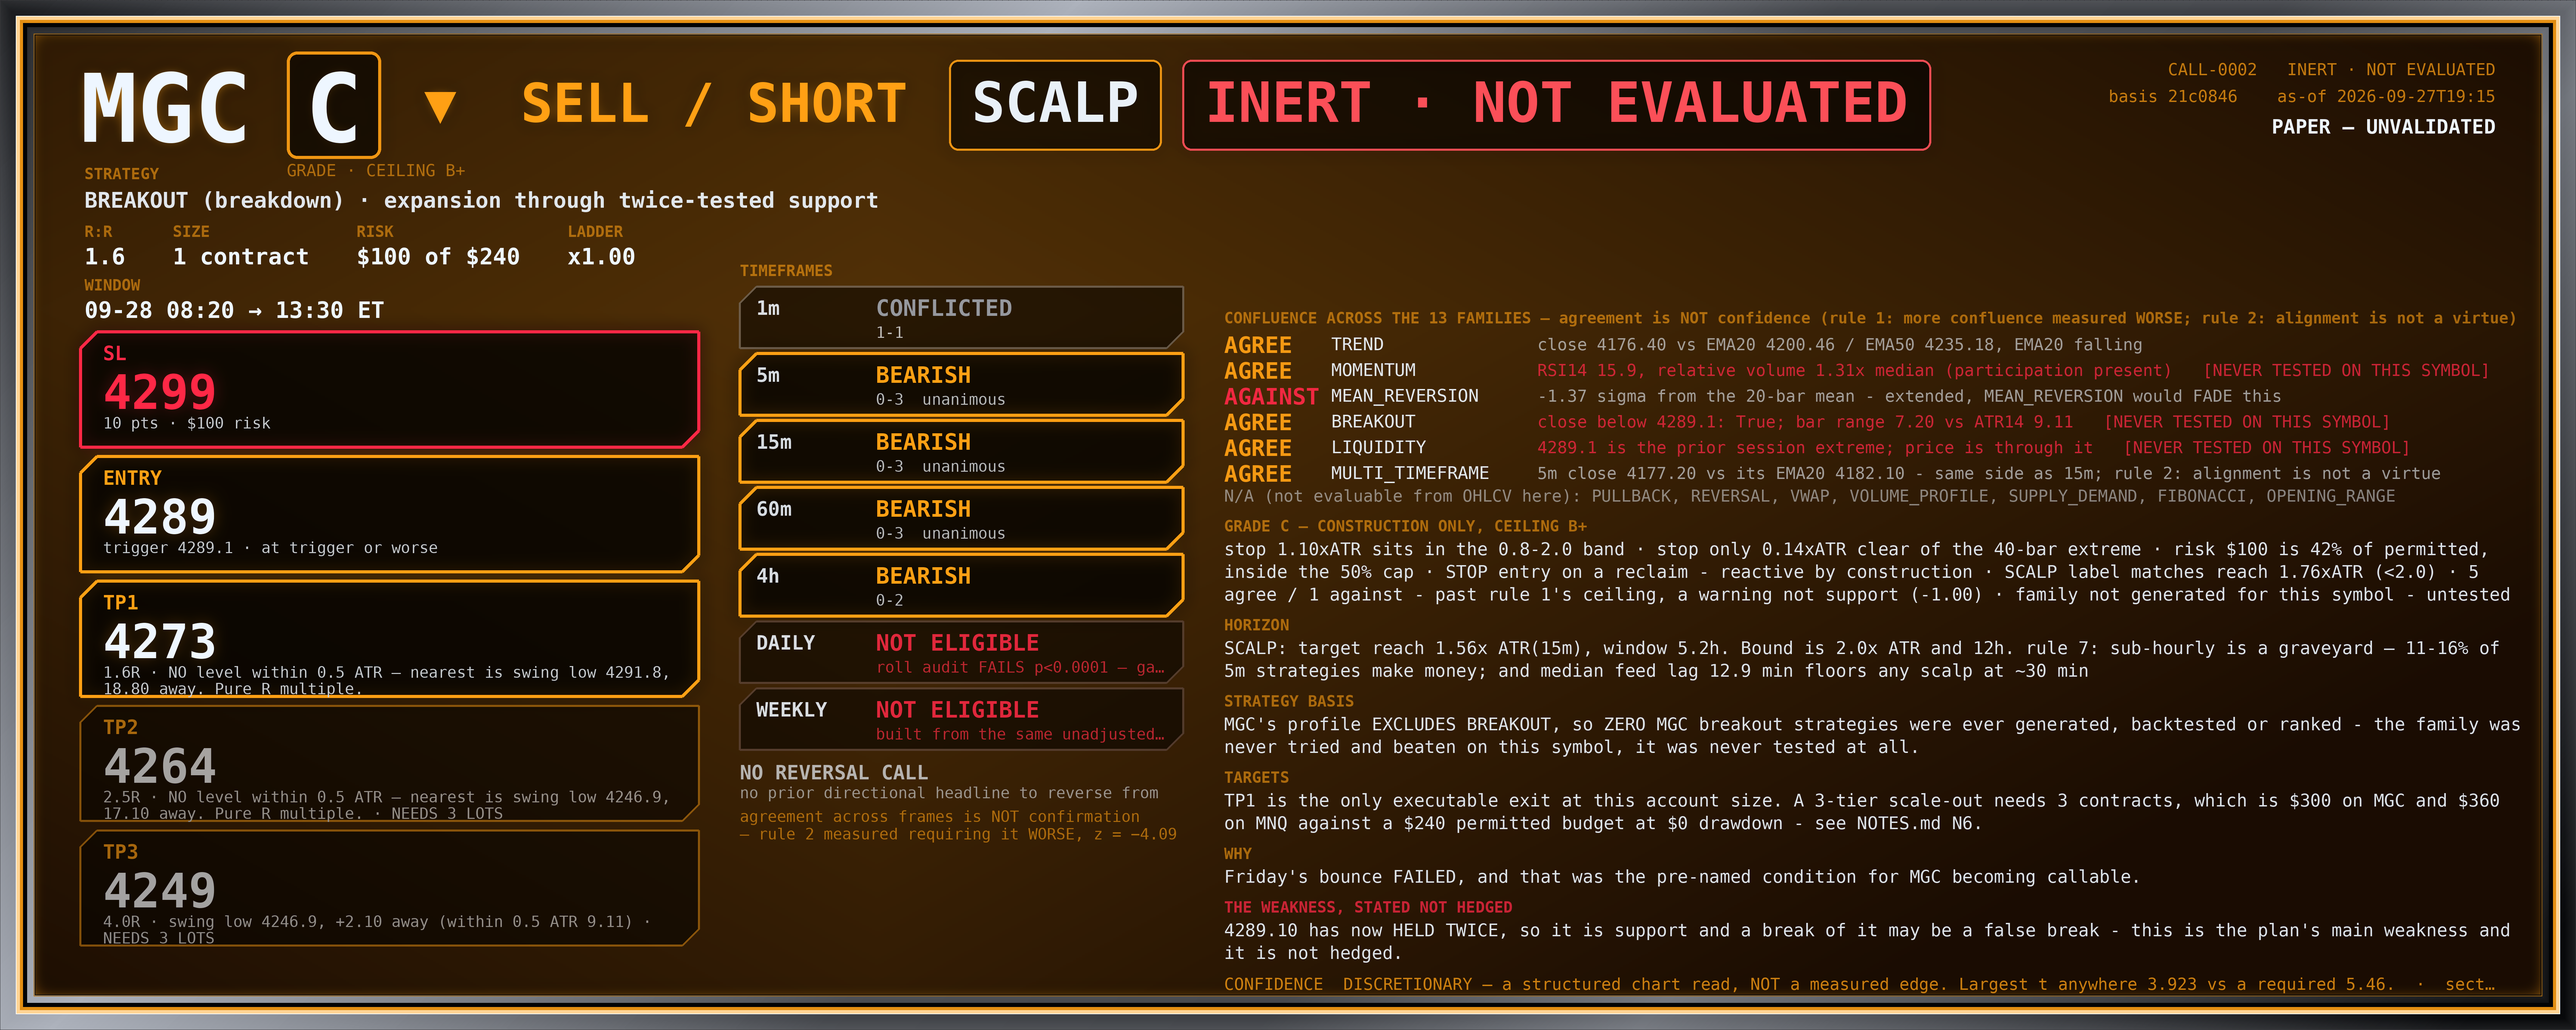
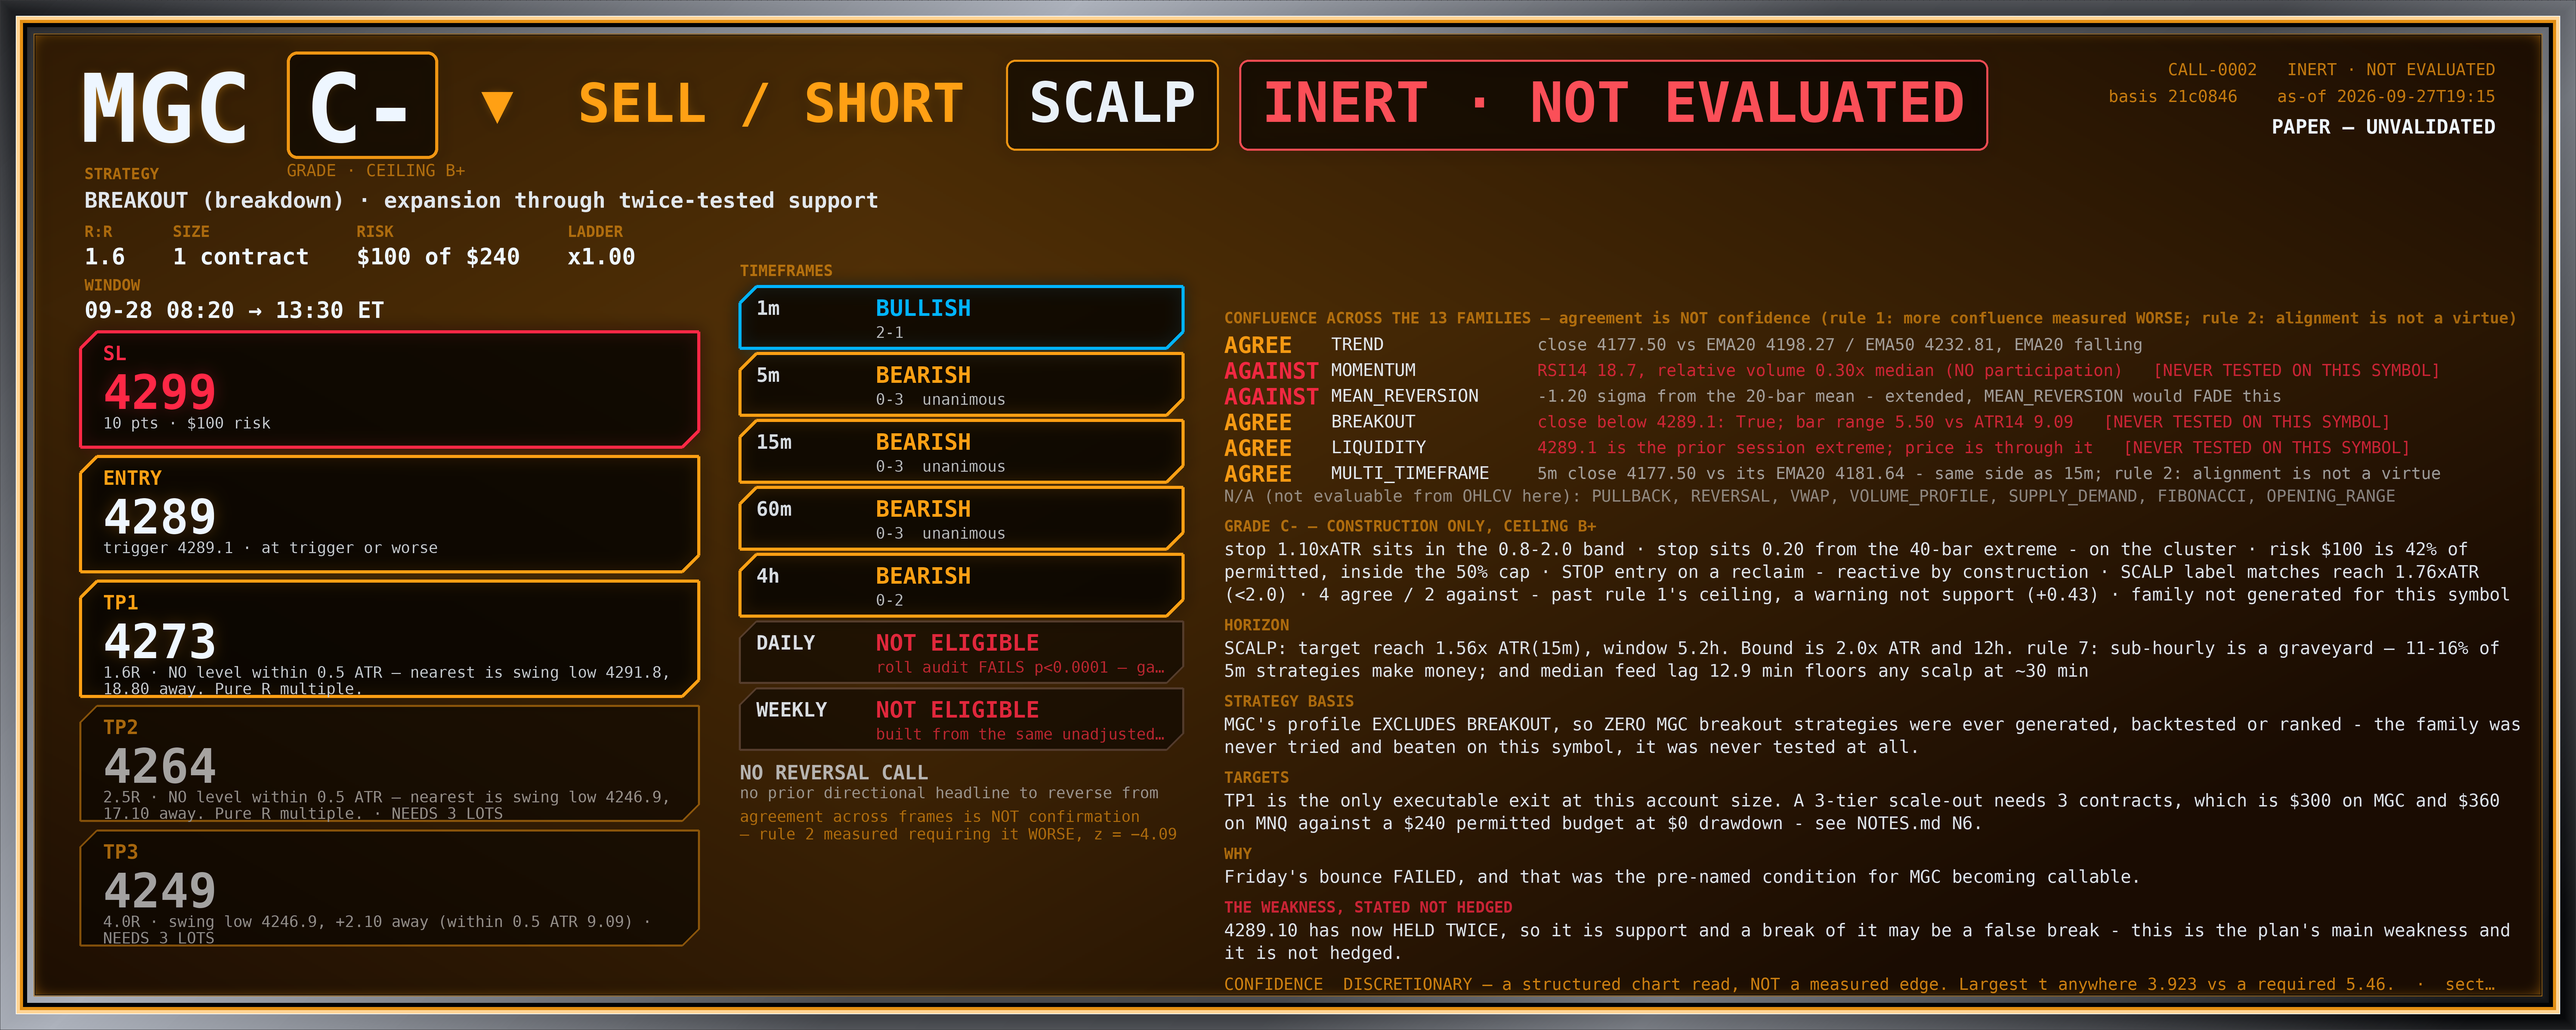
CALL desk: N74 - the break settled and N70's test was right; the reclaim that followed is rule 8's sweep
The 05:00 15m bar settled at 05:28. MNQ settled low 30536.25, 34.75 below the
30571.00 double bottom - the break is real on settled data, exactly as N70's test
predicted when it moved the verdict to "deeper than the observed maximum". MGC's
settled close moved -0.30, flat, as the same test's "1.70 deep against a 6.80
maximum, not a break" implied. First time tonight one of these constructions made
a falsifiable call in advance and the data confirmed it.

Precision point, because two of my own numbers disagree: chart.py's structure line
still reads MNQ swing lows 30571.00 -> 30571.00. Not a contradiction - a swing low
needs bars on both sides to confirm a pivot and the 05:00 low is too recent. The
raw settled low broke the level; the swing-low detector has not registered it. I
have been printing both in one table without distinguishing them.

Then MNQ went straight back up through the level: forming 05:15 low 30535.00, close
30582.00, a 47-point recovery closing ABOVE the level it had just broken. Location
1.9% -> 12.9%, a genuine move rather than denominator drift since the range low fell
only 1.25 while the close rose ~39.

Break the low, immediately reclaim it, is a stop sweep - precisely the sequence rule
8 covers: the ICT sweep/shift/retrace is real, common, and adds nothing over its
parts. Real and common is what I am looking at; adds nothing is why it is not a
trade. The most tempting thing on the screen tonight is the thing this repository
measured and found empty.
[…]

diff --git a/workspace/paper/CALL/NOTES.md b/workspace/paper/CALL/NOTES.md
@@ -3379,3 +3379,51 @@ No call. Reversal test false on both, both at range extremes, MGC's retracement 
 for ~35 more minutes. CALL-0004 resolves on the 06:00 ET bar and, at 39.30 points from its trigger with
 MGC 107 points below it, will resolve `EXPIRED_UNTRIGGERED` / NO_FILL at 0.0R — reported from the
 resolver when it happens, not from the clock (N32).
+
+## N74 — N70's test was RIGHT: the break settled. And the thing that happened next is exactly the pattern rule 8 says not to trade
+
+The `05:00` 15m bar settled at 05:28 and resolves the question N69 through N72 were circling:
+
+| symbol | settled `05:00` | |
+|---|---|---|
+| MNQ | o 30578.50 h 30606.50 **l 30536.25** c 30543.25 | delta **−36.00** |
+| MGC | o 4176.50 h 4179.80 **l 4172.60** c 4176.40 | delta **−0.30** |
+
+**MNQ's settled low is 30536.25, which is 34.75 below the 30571.00 double bottom. The break is real on
+settled data.** N70's test said "deeper than the observed maximum, safe to treat as real" and it was
+correct — the first time one of tonight's constructions made a falsifiable call in advance and the data
+confirmed it. MGC's settled close moved **−0.30**, i.e. flat, exactly as the same test's "1.70 deep
+against a 6.80 maximum, not a break" implied.
+
+One precision point that matters, because two numbers in my own output disagree. `chart.py`'s structure
+line still reads MNQ swing lows `30571.00 -> 30571.00`. That is not a contradiction: a *swing low* needs
+bars on both sides to confirm a pivot, and the `05:00` low is too recent to have them. The **raw settled
+low** has broken the level; the **swing-low detector** has not yet registered it. Those are different
+statements and I have been printing both in the same table all night without distinguishing them.
+
+### And then price went straight back up through the level
+
+MNQ's forming `05:15` bar: low **30535.00**, close **30582.00** — it made a marginal new low and then
+recovered **47 points**, closing back **above** the 30571.00 level it had just broken. Location jumped
+1.9% -> **12.9%**, and this one is a genuine move rather than N53 denominator drift: the range low fell
+only 1.25 while the close rose ~39.
+
+Break the low, immediately reclaim it. That is a stop sweep, and it is precisely the sequence
+**CALLOUT.md rule 8** addresses: *"the ICT sweep -> shift -> retrace sequence is real, common, and adds
+nothing over its parts."* Real and common is exactly what I am looking at. **Adds nothing over its
+parts** is why it is not a trade. The most tempting thing on the screen tonight is the thing this
+repository specifically measured and found empty, and I would be taking it on the strength of having
+watched it happen rather than on the strength of anything tested.
+
+So: **no long, no reversal call.** `regime.py`'s reversal test returns false on both symbols. Both 1m
+frames have turned bullish (MGC 2-1, MNQ 1-0), which after tonight's six 1m state changes carries no
+weight. MNQ's stack is now 1m/4h/daily/weekly bullish against 5m/15m/60m bearish — maximum internal
+disagreement, which is a no-trade configuration on its face.
+
+MGC: settled swing lows have stepped down `4174.30 -> 4172.60`, so its lower-low structure is now
+confirmed by the detector rather than pending. Location 3.9% of [4172.60, 4299.20].
+
+CALL-0004 resolves on the 06:00 ET bar, ~30 minutes out. That is the moment the MGC retracement short
+stops being blocked by N52, and MGC will by then have a confirmed lower high at 4185.20 and a confirmed
+lower low at 4172.60 to compute a retracement from — which is a better geometry than it had when I
+declined at 04:46.
